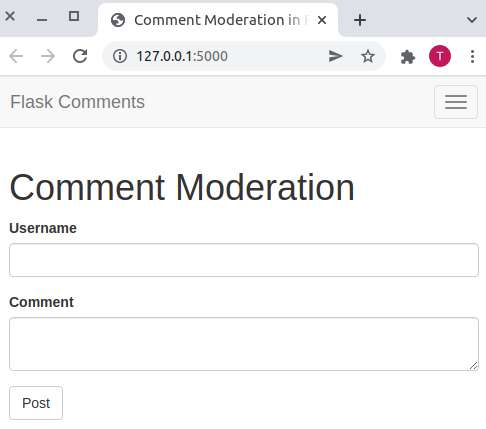
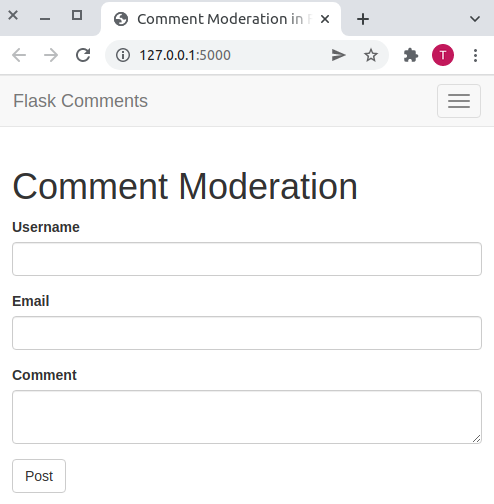
Show how to update the database

diff --git a/comment_moderation.md b/comment_moderation.md
@@ -90,17 +90,24 @@ Let us now create the class that defines all the fields we want in our comments 
 ```python
 from flask_wtf import FlaskForm
 from wtforms import StringField, SubmitField, TextAreaField
-from wtforms.validators import DataRequired
+from wtforms.validators import DataRequired, Email
 
 
 class CommentForm(FlaskForm):
     username = StringField('Username', validators=[DataRequired()])
+    email = StringField('Email', validators=[DataRequired(), Email()])
     comment = TextAreaField('Comment', validators=[DataRequired()])
     submit = SubmitField('Post')
 
 ```
 
-`flask-wtf` has a base class called `FlaskForm` which is needed. The variable fields are defined using `StringField`, `TextAreaField` and the `SubmitField` from `wtforms`. To ensure that the user does not submit empty data, we attach `DataRequired`. This will prevent them from clicking the `Post` button if any of the fields above are empty.
+`flask-wtf` has a base class called `FlaskForm` which is needed. The variable fields are defined using `StringField`, `TextAreaField` and the `SubmitField` from `wtforms`. To ensure that the user does not submit empty data, we attach `DataRequired`. This will prevent them from clicking the `Post` button if any of the fields above are empty. The ```Email``` validator will ensure that the email address is valid.
+
+You will need to install `email-validator` to use the ```Email``` validator.
+
+```python
+(comment_moderation)$ pip3 install email-validator
+```
 
 ### Display Comment Form
 
@@ -237,10 +244,13 @@ from app import db
 from datetime import datetime
 
 
-class Comment(db.Model):
+class UserComment(db.Model):
     id = db.Column(db.Integer, primary_key=True)
+    username = db.Column(db.String(64), index=True)
+    email = db.Column(db.String(120), index=True)
     content = db.Column(db.String(255))
     timestamp = db.Column(db.DateTime, index=True, default=datetime.utcnow)
+    user_id = db.Column(db.Integer, db.ForeignKey('user.id'))
 
     def __repr__(self):
         return 'Comment: {}'.format(self.content)
@@ -273,18 +283,22 @@ Remember that the `flask` command relies on the environment variable `FLASK_APP`
 To create our first migrations script, which will include the comments from our application users, run the following command in the terminal:
 
 ```python
-(comment_moderation)$ flask db migrate -m "comment table"
+(comment_moderation)$ flask db migrate -m "user comment table"
 
 # Output
 
 INFO  [alembic.runtime.migration] Context impl SQLiteImpl.
 INFO  [alembic.runtime.migration] Will assume non-transactional DDL.
-INFO  [alembic.autogenerate.compare] Detected added table 'comments'
-INFO  [alembic.autogenerate.compare] Detected added index 'ix_comments_timestamp' on '['timestamp']'
-  Generating /home/harry/software_development/python/practice_projects/comment_moderation/migrations/versions/f68f8554dfba_comment_table.py ...  done
+INFO  [alembic.autogenerate.compare] Detected added table 'user_comment'
+INFO  [alembic.autogenerate.compare] Detected added index 'ix_user_comment_email' on '['email']'
+INFO  [alembic.autogenerate.compare] Detected added index 'ix_user_comment_timestamp' on '['timestamp']'
+INFO  [alembic.autogenerate.compare] Detected added index 'ix_user_comment_username' on '['username']'
+INFO  [alembic.autogenerate.compare] Detected removed index 'ix_comment_timestamp' on 'comment'
+INFO  [alembic.autogenerate.compare] Detected removed table 'comment'
+  Generating /home/harry/software_development/python/practice_projects/comment_moderation/migrations/versions/5fc3f28ab1bc_user_comment_table.py ...  done
 ```
 
-The `-m` option is used to specify a message that will be included in the migration history. If you check the _versions_ subdirectory, you will notice that we have a new file called `XXX_comment_table.py`. This file contains two important functions: `upgrade()` and `downgrade()`. The `upgrade()` function will be called when the migration is applied. The `downgrade()` function will be called when the migration is rolled back.
+The `-m` option is used to specify a message that will be included in the migration history. If you check the _versions_ subdirectory, you will notice that we have a new file called `XXX_user_comment_table.py`. This file contains two important functions: `upgrade()` and `downgrade()`. The `upgrade()` function will be called when the migration is applied. The `downgrade()` function will be called when the migration is rolled back.
 
 To apply these changes to the database, run the following command in the terminal:
 
@@ -294,7 +308,7 @@ To apply these changes to the database, run the following command in the termina
 # Output
 INFO  [alembic.runtime.migration] Context impl SQLiteImpl.
 INFO  [alembic.runtime.migration] Will assume non-transactional DDL.
-INFO  [alembic.runtime.migration] Running upgrade  -> f68f8554dfba, comment table
+INFO  [alembic.runtime.migration] Running upgrade -> 5fc3f28ab1bc, user comment table
 ```
 
 You will add the migration script to source control and commit it. 
@@ -366,3 +380,65 @@ With all these updates, we are ready to create and apply the changes to the data
 (comment_moderation)$ flask db migrate -m "user table"
 (comment_moderation)$ flask db upgrade
 ```
+
+## Update the Database
+
+Since all user information is now stored in our `User` database which is linked to the `Comment` database, we can now query the database to display all comments. Every time a request to render our index page content is made, we will query the database to display all comments.
+
+The first step is to update our database every time new data comes through the Comments Form. 
+
+`routes.py: Update the database`
+```python
+from flask.helpers import url_for
+from werkzeug.utils import redirect
+from app import app, db
+from flask import render_template, flash, redirect, url_for
+from app.forms import CommentForm
+from app.models import UserComment # < ----- update
+
+
+@app.route('/', methods=['GET', 'POST'])
+@app.route('/index', methods=['GET', 'POST'])
+def index():
+    form = CommentForm()
+    if form.validate_on_submit():
+        user = UserComment(
+            username=form.username.data,
+            email=form.email.data,
+            content=form.comment.data
+        )
+        db.session.add(user)
+        db.session.commit()
+        flash('Your comment has been posted!')
+        return redirect(url_for('index'))
+    return render_template('index.html', form=form)
+
+```
+
+`form.validate_on_submit()` is used to validate the form. If the form is valid, the `user` object is created and added to the database. Otherwise, the index page will be displayed. I have added a flash message to notify the user that their comment has been posted. To see the message, we need to update our `base.html` template.
+
+`base.html: Show flash message`
+```html
+<!-- Contents of all our pages will go here -->
+{% block content %}
+    <div class="container">
+
+        {% with messages = get_flashed_messages() %}
+            {% if messages %}
+                {% for message in messages %}
+                    <div class="alert alert-success" role="alert">
+                        {{ message }}
+                    </div>
+                {% endfor %}
+            {% endif %}
+        {% endwith %}
+        
+        {% block app_context %}{% endblock %}
+    </div>
+{% endblock %}
+```
+
+Try post a comment. If all goes well, then you should be able to see the flash message.
+
+![Flash Message](images/comment_moderation/flash_message.png)
+
